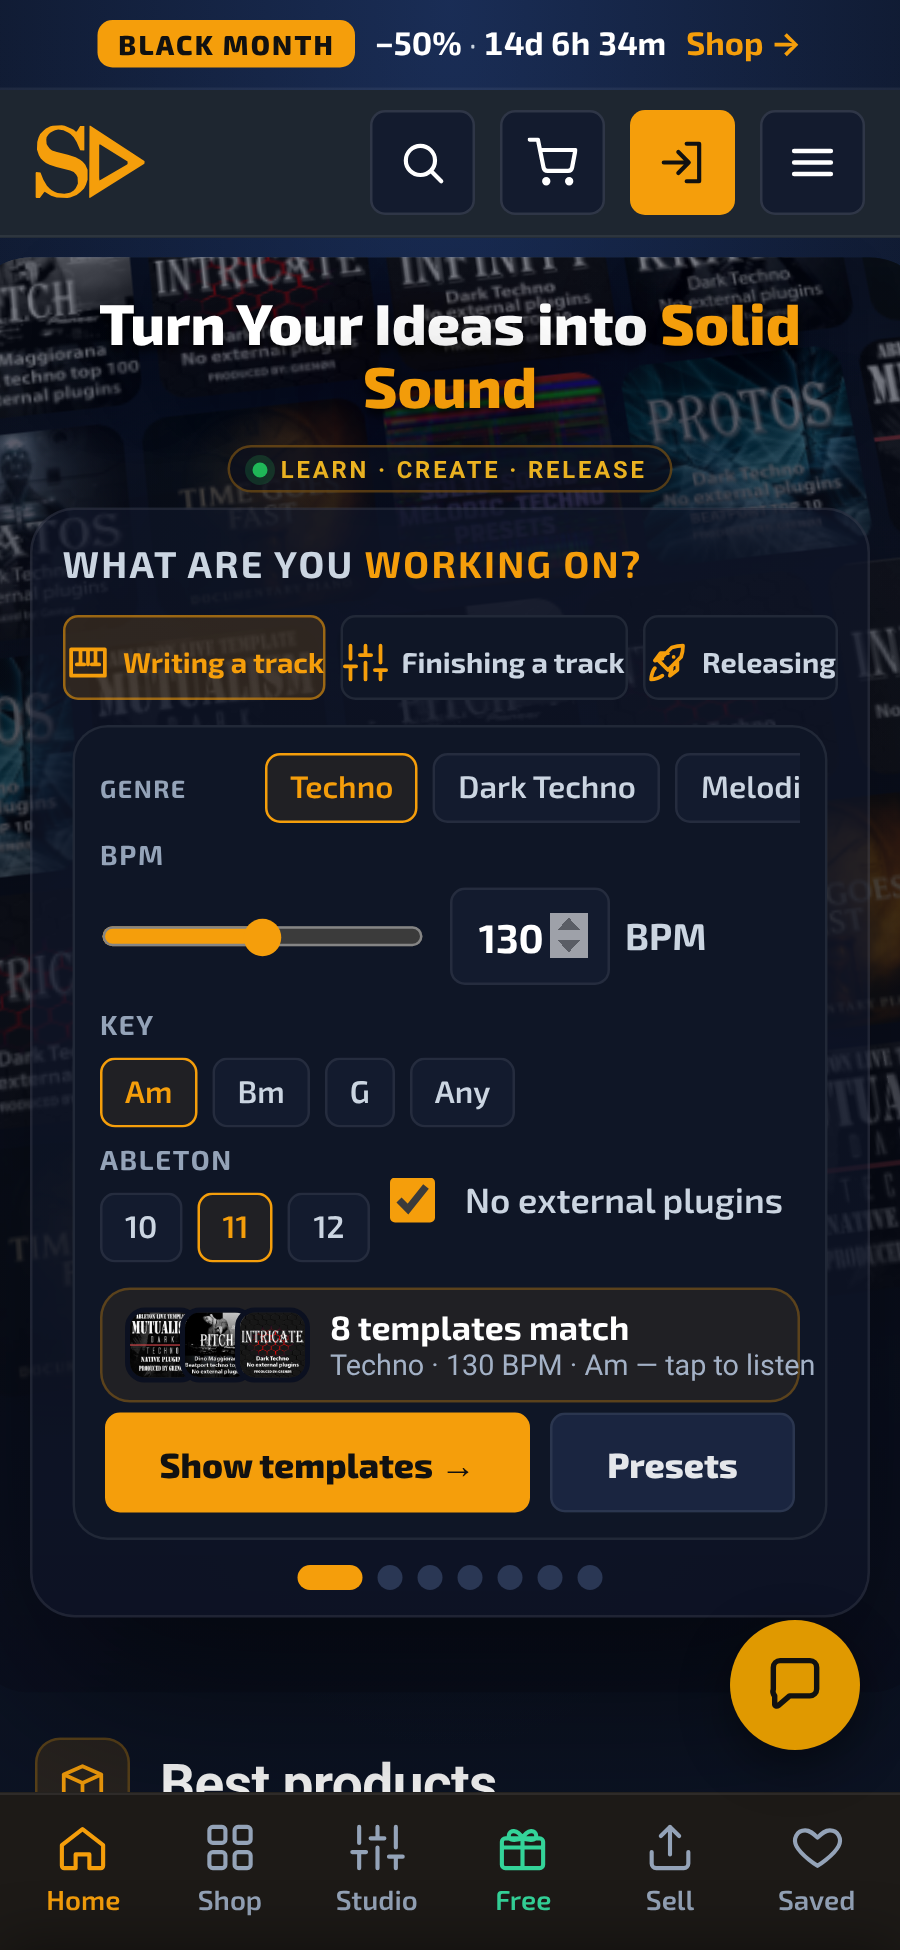
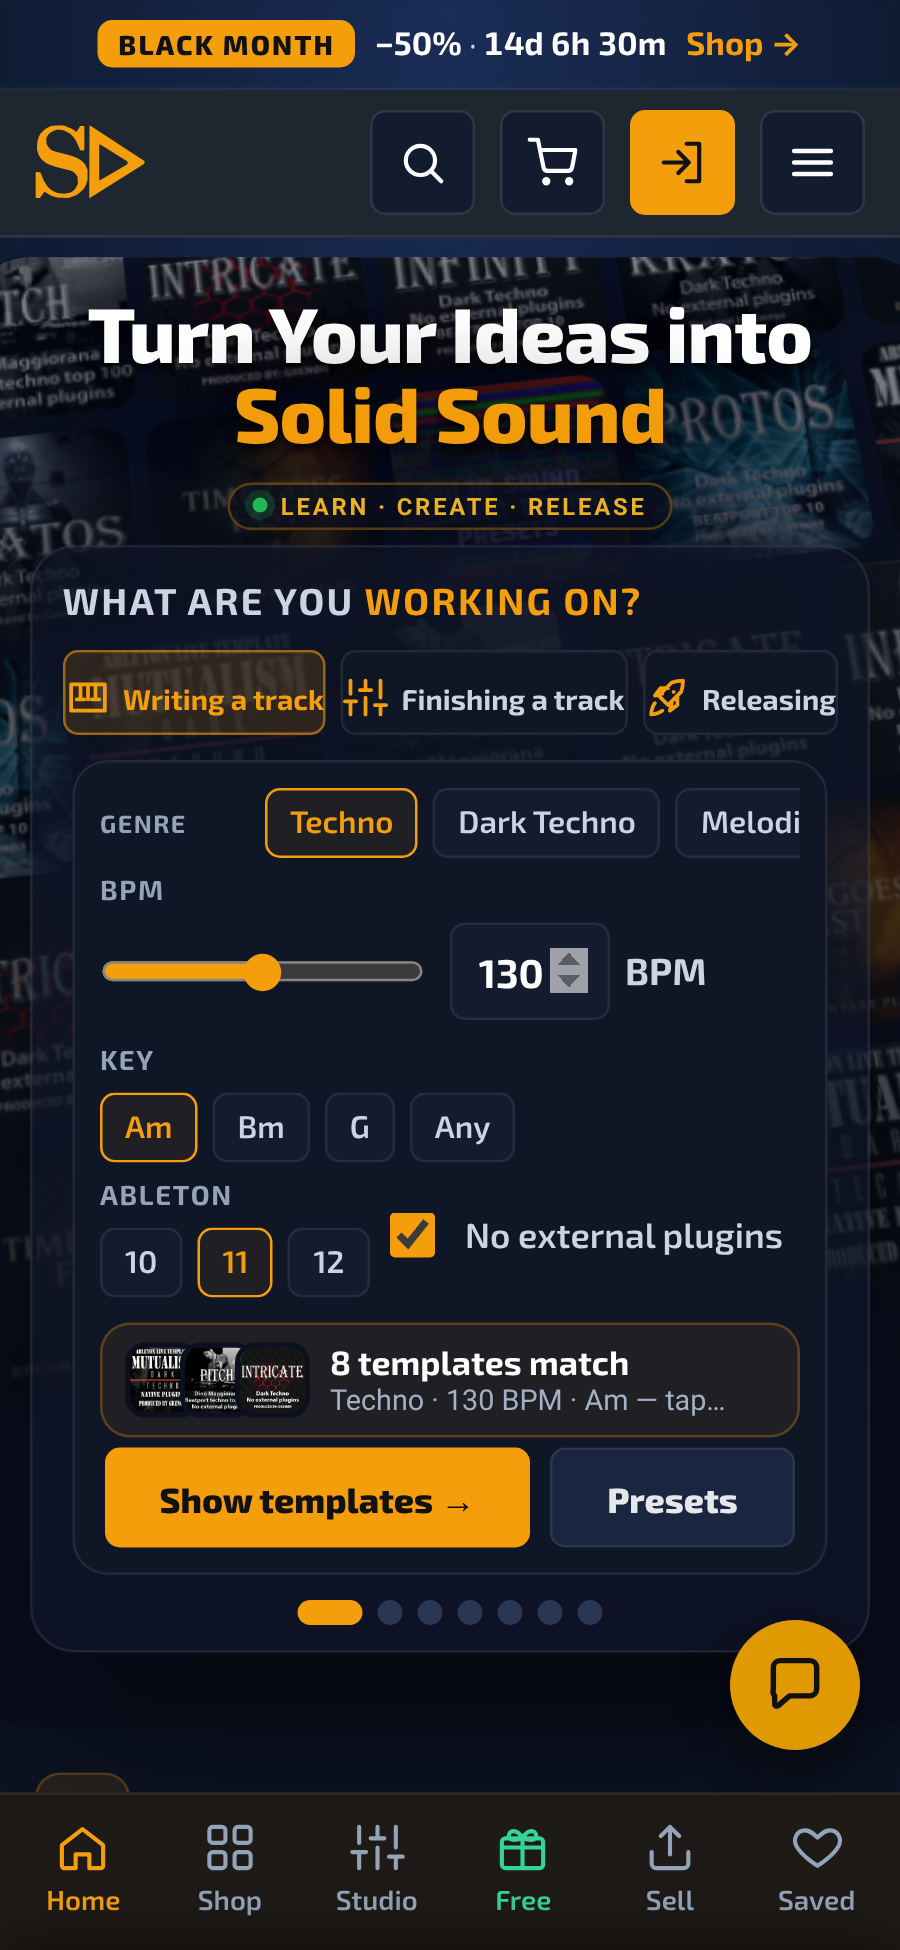
Home phones: bigger slogan
Claude-Session: https://claude.ai/code/session_01JfK5zSDYR2btK9FRr3xgU6

diff --git a/plugin/solid-sound-custom/build/modules/home-wow.php b/plugin/solid-sound-custom/build/modules/home-wow.php
@@ -79,14 +79,14 @@ body.ss-wow .ssx{position:relative;z-index:2;background:rgba(15,22,40,.66)!impor
 /* owner 16.11 «Адаптируй нормально»: phones — compact hero so the assistant and its button stay on the first screen */
 @media(max-width:600px){
  .ssw-hero{padding:14px 8px 10px}
- .ssw-hero .slg{font-size:26px!important;line-height:1.08;margin:0 auto 8px}
+ .ssw-hero .slg{font-size:33px!important;line-height:1.04;margin:0 auto 8px;letter-spacing:-.3px}
  .ssw-hero .k{font-size:9.5px;letter-spacing:.12em;padding:3px 9px;gap:5px}.ssw-hero .k i{width:6px;height:6px;box-shadow:0 0 0 3px rgba(34,197,94,.2)}
  .ssw-row a{width:96px;height:96px;border-radius:12px}.ssw-row{gap:8px;margin-bottom:8px}
  body.ss-wow .ssx h1.ssx-t,body.ss-wow#top .ssx h1.ssx-t{font-size:13px!important;margin:0 0 8px!important}
  .ssw-match{gap:8px;padding:7px 9px;margin-top:10px}.ssw-match .cv img{width:30px;height:30px;margin-left:-8px}
  .ssw-match b{font-size:13.5px}.ssw-match small{font-size:11.5px;display:block;white-space:nowrap;overflow:hidden;text-overflow:ellipsis;max-width:calc(100vw - 200px)}.ssw-match>span:last-child{min-width:0;flex:1}
 }
-@media(max-width:380px){.ssw-hero .slg{font-size:23px!important}}
+@media(max-width:380px){.ssw-hero .slg{font-size:31px!important}}
 @media(min-width:900px){.ssw-hero{padding:34px 12px 22px}.ssw-row a{width:168px;height:168px}}
 @media(prefers-reduced-motion:reduce){.ssw-row{animation:none}}
 </style>

diff --git a/plugin/solid-sound-custom/src/modules/home-wow.php b/plugin/solid-sound-custom/src/modules/home-wow.php
@@ -79,14 +79,14 @@ body.ss-wow .ssx{position:relative;z-index:2;background:rgba(15,22,40,.66)!impor
 /* owner 16.11 «Адаптируй нормально»: phones — compact hero so the assistant and its button stay on the first screen */
 @media(max-width:600px){
  .ssw-hero{padding:14px 8px 10px}
- .ssw-hero .slg{font-size:26px!important;line-height:1.08;margin:0 auto 8px}
+ .ssw-hero .slg{font-size:33px!important;line-height:1.04;margin:0 auto 8px;letter-spacing:-.3px}
  .ssw-hero .k{font-size:9.5px;letter-spacing:.12em;padding:3px 9px;gap:5px}.ssw-hero .k i{width:6px;height:6px;box-shadow:0 0 0 3px rgba(34,197,94,.2)}
  .ssw-row a{width:96px;height:96px;border-radius:12px}.ssw-row{gap:8px;margin-bottom:8px}
  body.ss-wow .ssx h1.ssx-t,body.ss-wow#top .ssx h1.ssx-t{font-size:13px!important;margin:0 0 8px!important}
  .ssw-match{gap:8px;padding:7px 9px;margin-top:10px}.ssw-match .cv img{width:30px;height:30px;margin-left:-8px}
  .ssw-match b{font-size:13.5px}.ssw-match small{font-size:11.5px;display:block;white-space:nowrap;overflow:hidden;text-overflow:ellipsis;max-width:calc(100vw - 200px)}.ssw-match>span:last-child{min-width:0;flex:1}
 }
-@media(max-width:380px){.ssw-hero .slg{font-size:23px!important}}
+@media(max-width:380px){.ssw-hero .slg{font-size:31px!important}}
 @media(min-width:900px){.ssw-hero{padding:34px 12px 22px}.ssw-row a{width:168px;height:168px}}
 @media(prefers-reduced-motion:reduce){.ssw-row{animation:none}}
 </style>
